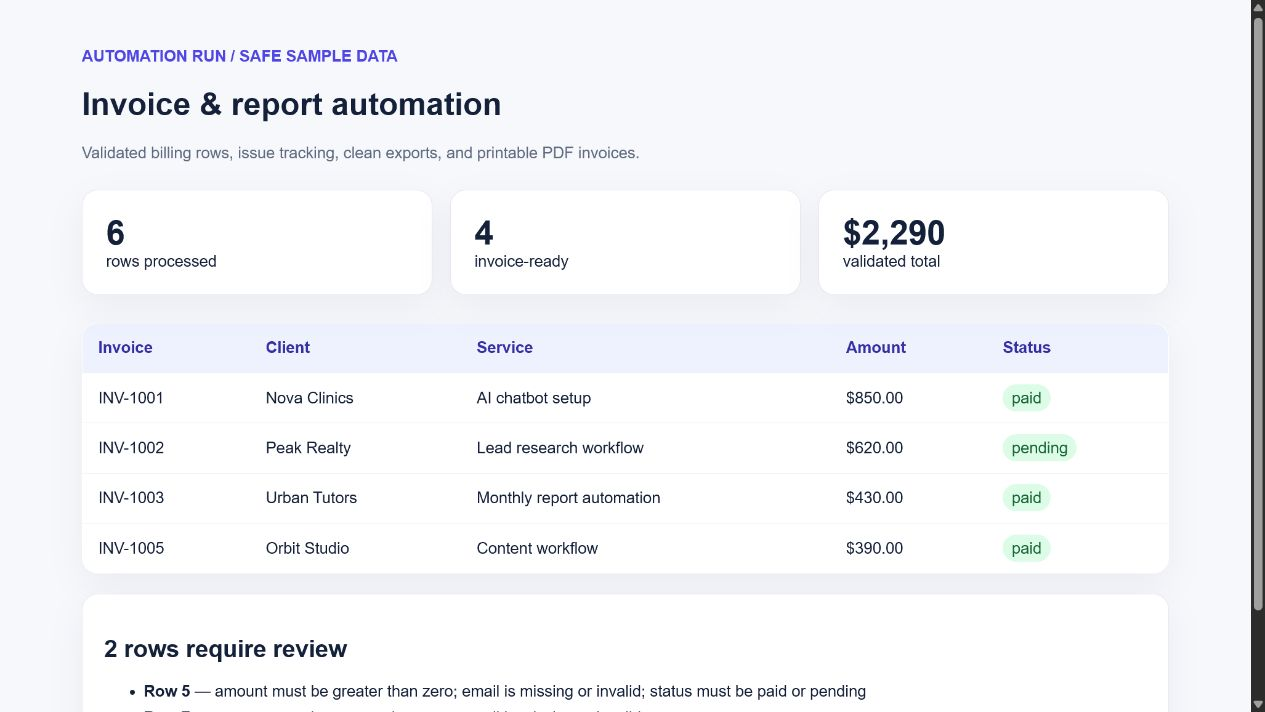
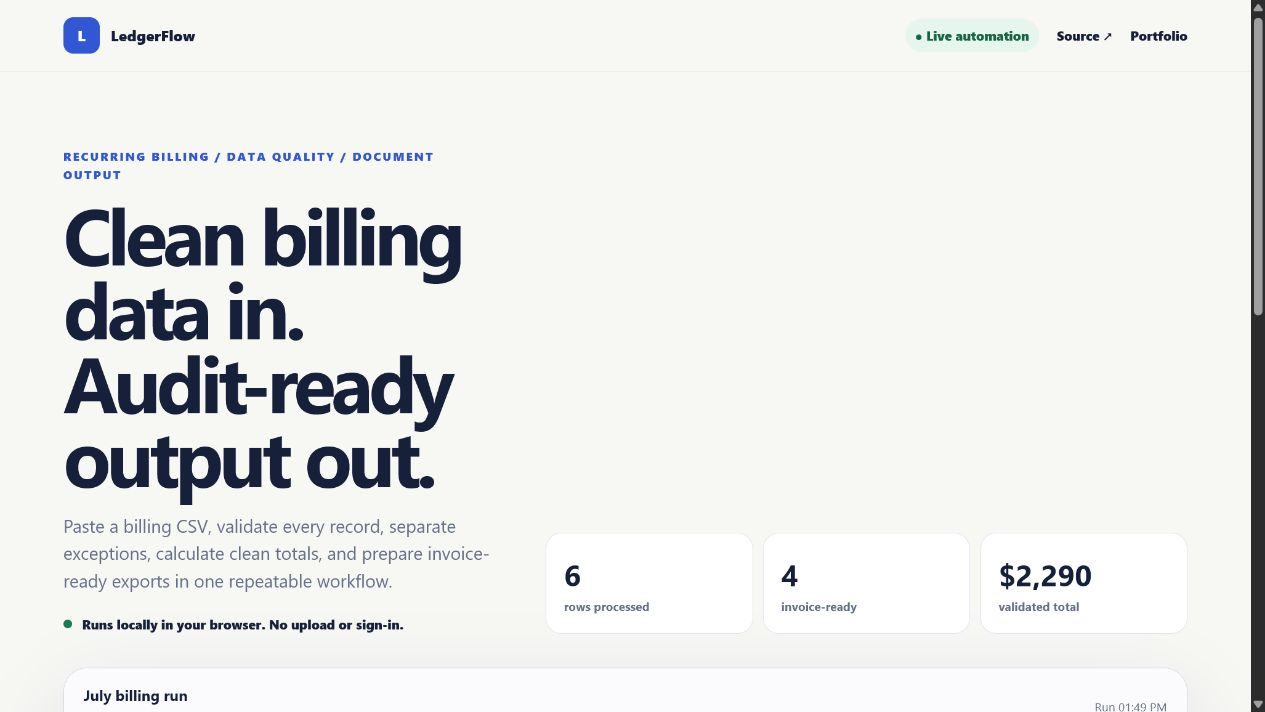
Add standalone live product site (#1)

diff --git a/site/index.html b/site/index.html
@@ -1,0 +1,29 @@
+<!doctype html>
+<html lang="en">
+<head>
+  <meta charset="utf-8"><meta name="viewport" content="width=device-width,initial-scale=1"><meta name="description" content="A live invoice and recurring-report automation workflow by Rongali Chaitanya."><meta property="og:title" content="LedgerFlow — Invoice Automation"><meta property="og:description" content="Validate billing data, separate exceptions, and export clean invoice-ready records."><meta property="og:image" content="https://rongali-commits.github.io/invoice-report-automation/og.png"><meta property="og:type" content="website"><title>LedgerFlow — Invoice Automation</title>
+  <style>
+    :root{--ink:#17203b;--muted:#67708a;--blue:#3157d5;--blue2:#eaf0ff;--line:#dfe3ee;--paper:#f7f7f4;--white:#fff;--amber:#f5b84b;--red:#bd3c54;--green:#1d7a52}*{box-sizing:border-box}body{margin:0;background:var(--paper);color:var(--ink);font:15px/1.55 Inter,ui-sans-serif,system-ui,-apple-system,"Segoe UI",sans-serif}button,textarea{font:inherit}a{color:inherit}.top{display:flex;min-height:72px;align-items:center;justify-content:space-between;padding:0 clamp(20px,5vw,72px);border-bottom:1px solid var(--line);background:rgba(247,247,244,.92);position:sticky;top:0;z-index:4;backdrop-filter:blur(14px)}.brand{display:flex;align-items:center;gap:11px;text-decoration:none;font-weight:950}.logo{display:grid;width:37px;height:37px;place-items:center;border-radius:10px;background:var(--blue);color:#fff}.links{display:flex;gap:18px;align-items:center}.links a{text-decoration:none;font-size:13px;font-weight:850}.live{padding:7px 10px;border-radius:999px;background:#e6f6ee;color:#166545}.hero{max-width:1480px;margin:auto;padding:clamp(42px,6vw,84px) clamp(20px,5vw,72px) 34px}.eyebrow{margin:0 0 13px;color:var(--blue);font-size:12px;font-weight:950;letter-spacing:.13em;text-transform:uppercase}.hero-grid{display:grid;grid-template-columns:minmax(0,.8fr) minmax(520px,1.2fr);gap:55px;align-items:end}.hero h1{margin:0;font-size:clamp(48px,6.2vw,88px);line-height:.94;letter-spacing:-.06em}.hero-copy{max-width:580px;margin:20px 0;color:var(--muted);font-size:18px}.run-note{display:flex;gap:10px;align-items:center;font-size:13px;font-weight:800}.run-note span{width:9px;height:9px;border-radius:50%;background:var(--green)}.summary{display:grid;grid-template-columns:repeat(3,1fr);gap:10px}.metric{padding:18px;border:1px solid var(--line);border-radius:16px;background:white}.metric strong,.metric span{display:block}.metric strong{font-size:30px}.metric span{color:var(--muted);font-size:12px;font-weight:750}.workspace{max-width:1480px;margin:auto;padding:0 clamp(20px,5vw,72px) 88px}.app{overflow:hidden;border:1px solid #cfd4e2;border-radius:24px;background:white;box-shadow:0 30px 80px rgba(31,43,85,.13)}.appbar{display:flex;align-items:center;justify-content:space-between;padding:16px 20px;border-bottom:1px solid var(--line);background:#fbfbfd}.appbar strong{display:block}.appbar span{color:var(--muted);font-size:12px}.appbody{display:grid;grid-template-columns:minmax(360px,.72fr) minmax(0,1.28fr);min-height:620px}.input-panel{padding:22px;border-right:1px solid var(--line);background:#f7f8fc}.panel-title{display:flex;justify-content:space-between;align-items:center;margin-bottom:12px}.panel-title h2{margin:0;font-size:15px}.panel-title span{color:var(--muted);font-size:12px}.input-panel textarea{width:100%;min-height:390px;resize:vertical;padding:14px;border:1px solid #cbd2e1;border-radius:13px;background:#11182b;color:#e8edff;font:12px/1.65 ui-monospace,SFMono-Regular,Consolas,monospace}.actions{display:flex;gap:9px;margin-top:13px}.button{min-height:44px;padding:0 15px;border:0;border-radius:11px;font-weight:900;cursor:pointer}.primary{background:var(--blue);color:#fff}.secondary{border:1px solid var(--line);background:#fff;color:var(--ink)}.results{padding:22px;overflow:auto}.result-head{display:flex;justify-content:space-between;align-items:center;margin-bottom:18px}.result-head h2{margin:0;font-size:20px}.result-head button{border:0;background:transparent;color:var(--blue);font-weight:900;cursor:pointer}.table-wrap{overflow:auto;border:1px solid var(--line);border-radius:14px}table{width:100%;border-collapse:collapse;min-width:620px}th,td{padding:13px 14px;text-align:left;border-bottom:1px solid #edf0f5}th{background:var(--blue2);color:#2947a5;font-size:11px;letter-spacing:.06em;text-transform:uppercase}.badge{padding:4px 8px;border-radius:999px;font-size:11px;font-weight:900}.paid{background:#e2f4e9;color:var(--green)}.pending{background:#fff1d4;color:#8a5b00}.issues{margin-top:17px;padding:16px;border:1px solid #f0c9d0;border-radius:14px;background:#fff6f7}.issues h3{margin:0 0 8px;color:var(--red);font-size:14px}.issues ul{margin:0;padding-left:20px;color:#70444c}.architecture{display:grid;grid-template-columns:repeat(4,1fr);gap:10px;margin-top:28px}.architecture div{padding:16px;border:1px solid var(--line);border-radius:14px;background:white}.architecture strong,.architecture span{display:block}.architecture span{color:var(--muted);font-size:12px}.footer{display:flex;justify-content:space-between;padding:26px clamp(20px,5vw,72px);border-top:1px solid var(--line);color:var(--muted);font-size:12px}@media(max-width:1000px){.hero-grid,.appbody{grid-template-columns:1fr}.input-panel{border-right:0;border-bottom:1px solid var(--line)}.architecture{grid-template-columns:1fr 1fr}}@media(max-width:650px){.links a:not(.live){display:none}.summary,.architecture{grid-template-columns:1fr}.hero h1{font-size:52px}.appbody{display:block}.footer{flex-direction:column;gap:8px}}
+  </style>
+</head>
+<body>
+  <header class="top"><a class="brand" href="./"><span class="logo">L</span>LedgerFlow</a><nav class="links"><a class="live" href="#workspace">● Live automation</a><a href="https://github.com/rongali-commits/invoice-report-automation">Source ↗</a><a href="https://www.rongalichaitanya.com">Portfolio</a></nav></header>
+  <main><section class="hero"><div class="hero-grid"><div><p class="eyebrow">Recurring billing / data quality / document output</p><h1>Clean billing data in. Audit-ready output out.</h1><p class="hero-copy">Paste a billing CSV, validate every record, separate exceptions, calculate clean totals, and prepare invoice-ready exports in one repeatable workflow.</p><div class="run-note"><span></span>Runs locally in your browser. No upload or sign-in.</div></div><div class="summary" aria-label="Automation summary"><div class="metric"><strong id="rows">0</strong><span>rows processed</span></div><div class="metric"><strong id="ready">0</strong><span>invoice-ready</span></div><div class="metric"><strong id="total">$0</strong><span>validated total</span></div></div></div></section>
+    <section class="workspace" id="workspace"><div class="app"><div class="appbar"><div><strong>July billing run</strong><span>Fictional sample records · USD · validation profile v1</span></div><span id="timestamp">Not run</span></div><div class="appbody"><section class="input-panel"><div class="panel-title"><h2>CSV input</h2><span>Editable</span></div><textarea id="csv" aria-label="Billing CSV input">invoice_id,client,email,service,amount,status
+INV-1001,Nova Clinics,accounts@nova.example,AI chatbot setup,850,paid
+INV-1002,Peak Realty,finance@peak.example,Lead research workflow,620,pending
+INV-1003,Urban Tutors,ops@urban.example,Monthly report automation,430,paid
+INV-1004,Bright Dental,,Document processing,0,review
+INV-1005,Orbit Studio,team@orbit.example,Content workflow,390,paid
+INV-1006,LedgerWise,billing-at-ledger.example,Spreadsheet cleanup,-12,pending</textarea><div class="actions"><button class="button primary" id="run">Run validation</button><button class="button secondary" id="reset">Restore sample</button></div></section><section class="results"><div class="result-head"><h2>Invoice-ready records</h2><button id="download">Download clean CSV</button></div><div class="table-wrap"><table><thead><tr><th>Invoice</th><th>Client</th><th>Service</th><th>Amount</th><th>Status</th></tr></thead><tbody id="output"></tbody></table></div><section class="issues"><h3 id="issue-title">Exceptions</h3><ul id="issues"></ul></section></section></div></div><div class="architecture"><div><strong>01 · Parse</strong><span>Header and row structure</span></div><div><strong>02 · Validate</strong><span>Email, amount, status, required fields</span></div><div><strong>03 · Separate</strong><span>Clean export and issue queue</span></div><div><strong>04 · Deliver</strong><span>Python backend can add PDFs and email</span></div></div></section></main>
+  <footer class="footer"><span>Built by Rongali Chaitanya · Python implementation included in the repository.</span><span>All businesses and contacts are fictional.</span></footer>
+  <script>
+    const sample=document.querySelector('#csv').value;let clean=[];
+    function parse(text){const lines=text.trim().split(/\r?\n/).filter(Boolean);const headers=(lines.shift()||'').split(',').map(v=>v.trim());return lines.map((line,index)=>({row:index+2,data:Object.fromEntries(headers.map((h,i)=>[h,(line.split(',')[i]||'').trim()]))}))}
+    function validate(record){const d=record.data;const reasons=[];const amount=Number(d.amount);if(!d.invoice_id)reasons.push('invoice ID missing');if(!d.client||!d.service)reasons.push('client or service missing');if(!/^[^@\s]+@[^@\s]+\.[^@\s]+$/.test(d.email||''))reasons.push('email invalid');if(!Number.isFinite(amount)||amount<=0)reasons.push('amount must be greater than zero');if(!['paid','pending'].includes((d.status||'').toLowerCase()))reasons.push('status must be paid or pending');return{...record,amount,reasons}}
+    function money(value){return new Intl.NumberFormat('en-US',{style:'currency',currency:'USD',maximumFractionDigits:0}).format(value)}
+    function run(){const records=parse(document.querySelector('#csv').value).map(validate);clean=records.filter(r=>!r.reasons.length);const bad=records.filter(r=>r.reasons.length);document.querySelector('#rows').textContent=records.length;document.querySelector('#ready').textContent=clean.length;document.querySelector('#total').textContent=money(clean.reduce((sum,r)=>sum+r.amount,0));document.querySelector('#timestamp').textContent=`Run ${new Date().toLocaleTimeString([],{hour:'2-digit',minute:'2-digit'})}`;document.querySelector('#output').innerHTML=clean.map(r=>`<tr><td><strong>${r.data.invoice_id}</strong></td><td>${r.data.client}</td><td>${r.data.service}</td><td>${money(r.amount)}</td><td><span class="badge ${r.data.status}">${r.data.status}</span></td></tr>`).join('')||'<tr><td colspan="5">No valid rows</td></tr>';document.querySelector('#issue-title').textContent=`${bad.length} row${bad.length===1?'':'s'} require review`;document.querySelector('#issues').innerHTML=bad.map(r=>`<li><strong>Row ${r.row}:</strong> ${r.reasons.join('; ')}</li>`).join('')||'<li>No exceptions found.</li>'}
+    function csvEscape(v){return `"${String(v).replaceAll('"','""')}"`}
+    document.querySelector('#download').addEventListener('click',()=>{if(!clean.length)return;const fields=['invoice_id','client','email','service','amount','status'];const body=[fields.join(','),...clean.map(r=>fields.map(f=>csvEscape(r.data[f])).join(','))].join('\n');const a=document.createElement('a');a.href=URL.createObjectURL(new Blob([body],{type:'text/csv'}));a.download='clean-invoices.csv';a.click();URL.revokeObjectURL(a.href)});document.querySelector('#run').addEventListener('click',run);document.querySelector('#reset').addEventListener('click',()=>{document.querySelector('#csv').value=sample;run()});run();
+  </script>
+</body></html>

diff --git a/README.md b/README.md
@@ -1,7 +1,7 @@
 # Invoice & Report Automation
 
 [![CI](https://github.com/rongali-commits/invoice-report-automation/actions/workflows/ci.yml/badge.svg)](https://github.com/rongali-commits/invoice-report-automation/actions/workflows/ci.yml)
-[Portfolio](https://www.rongalichaitanya.com) · [Discuss a workflow](mailto:hello@rongalichaitanya.com)
+[Live application](https://rongali-commits.github.io/invoice-report-automation/) · [Portfolio](https://www.rongalichaitanya.com) · [Discuss a workflow](mailto:hello@rongalichaitanya.com)
 
 A client-style Python workflow that turns recurring billing CSV files into validated exports, an issue queue, run summaries, and printable PDF invoices.
 
@@ -68,6 +68,7 @@ Accepted statuses are `paid` and `pending`. Invalid rows are never silently disc
 
 ```text
 src/invoice_automation/   validation, output generation, and CLI
+site/                     independently hosted browser edition
 sample_data/              fictional billing records
 tests/                    repeatable pipeline tests
 docs/                     verified screenshot
